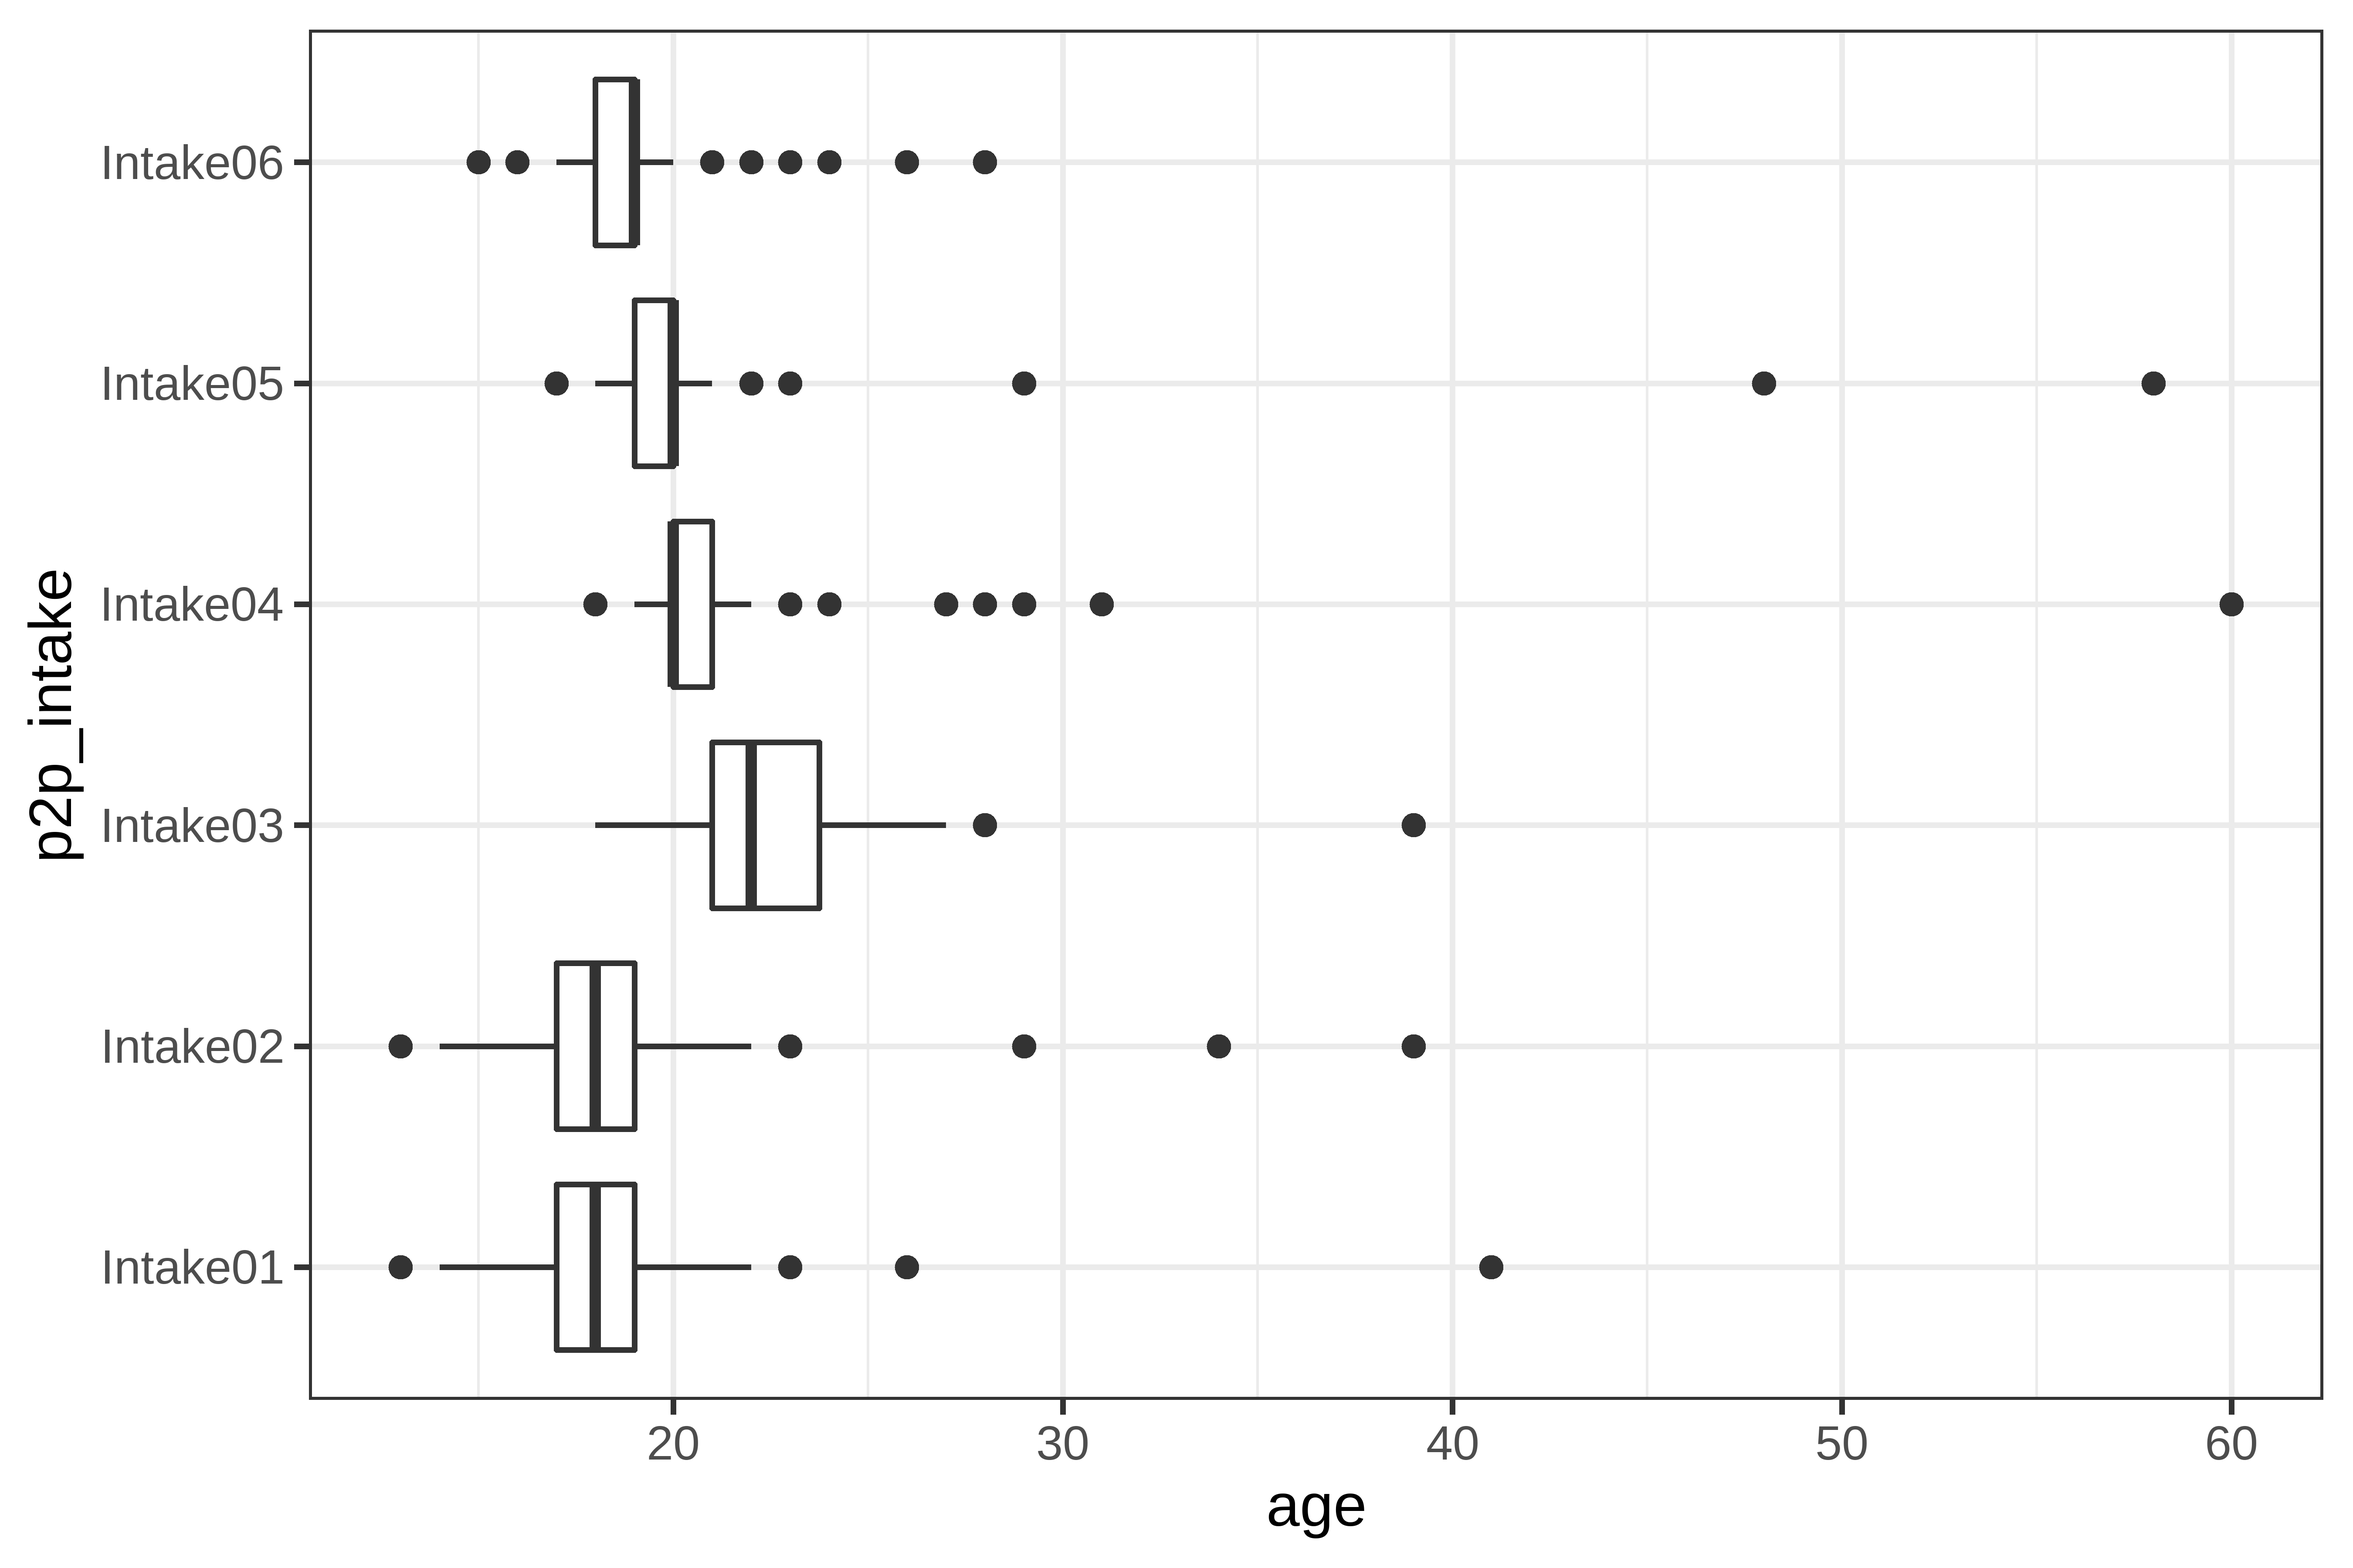
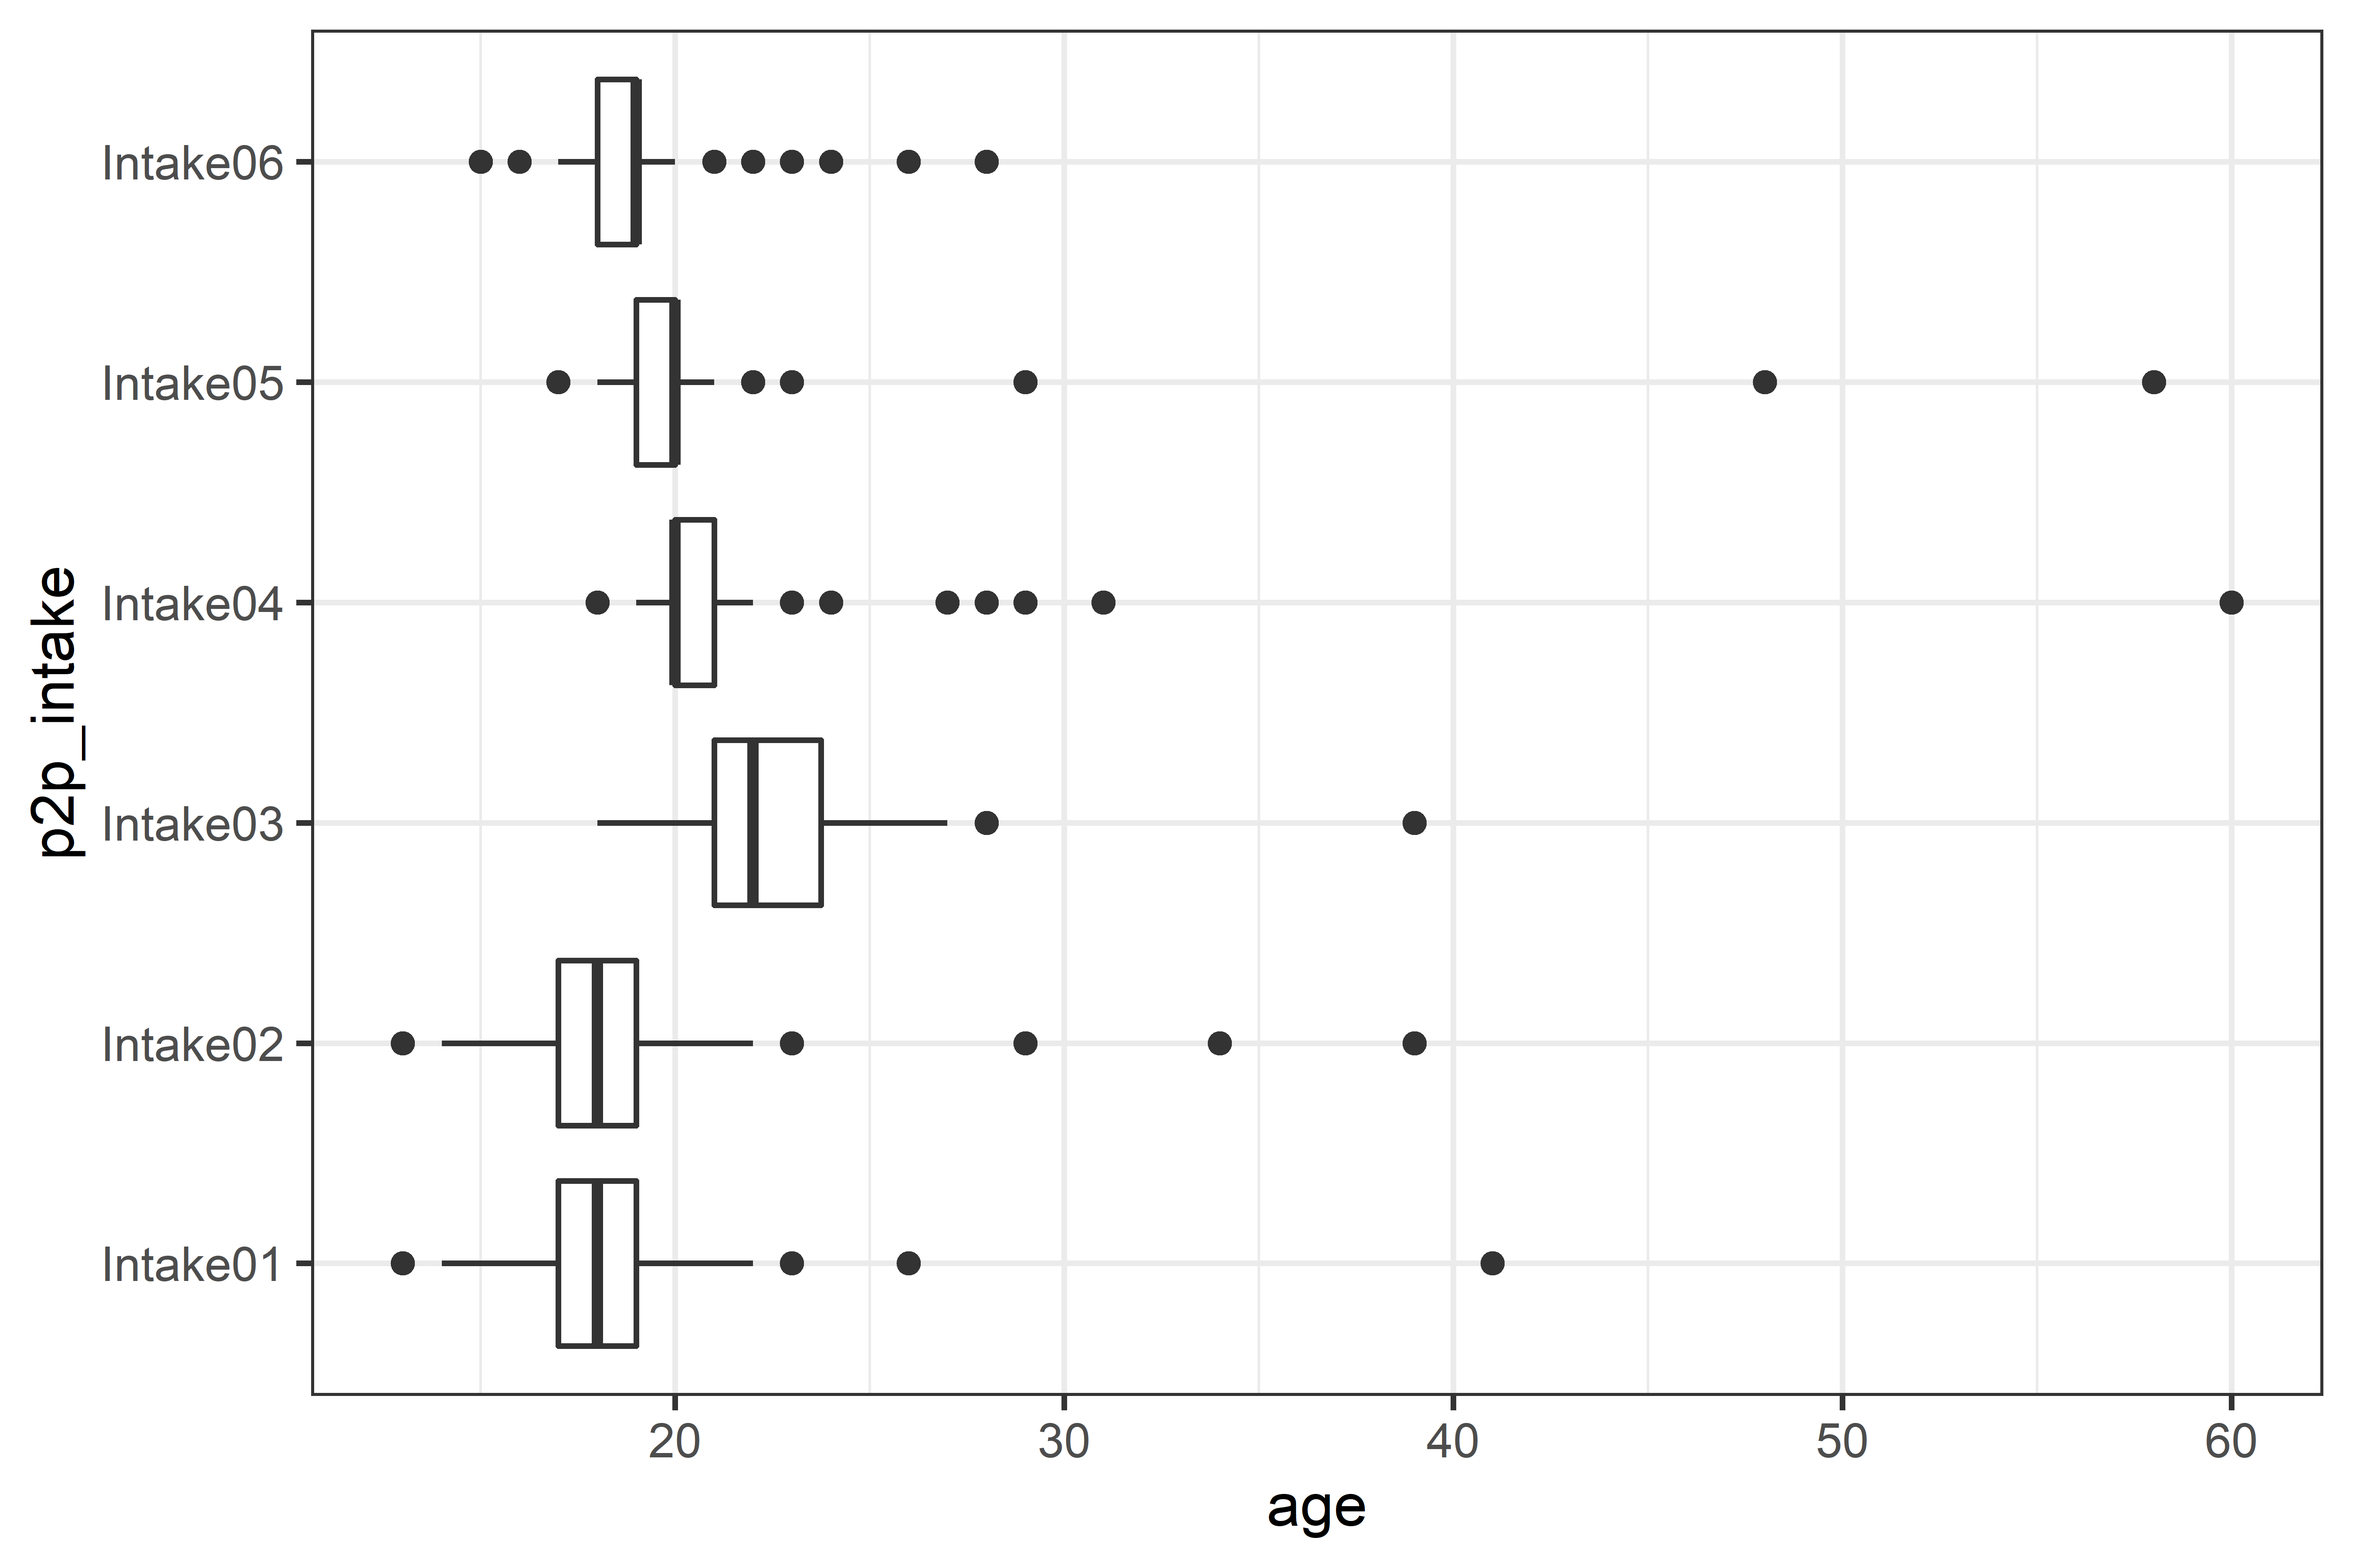
More updates

diff --git a/week_06/week_06_slides.html b/week_06/week_06_slides.html
@@ -119,15 +119,9 @@ background-size: contain
 .pull-right[
 `{ggplot2}` is a powerful, flexible, and widely used R package for making plots.
 
-&lt;br /&gt;
-
 What makes it so useful is that it is based on a **layered grammar of graphics**, "a coherent system for describing and building graphs" [(Grolemund &amp; Wickham, 2017)](https://r4ds.had.co.nz/data-visualisation.html#introduction-1).
 
-&lt;br /&gt;
-
 The grammar of graphics defines a logic for what makes up a plot and how data is mapped to aesthetic features.
-
-&lt;br /&gt;
 
 &lt;small&gt;Note: The `gg` in `{ggplot2}` stands for **g**rammar of **g**raphics!&lt;/small&gt;
 ]
@@ -1460,7 +1454,7 @@ p
 ## Plot every data point - take 2
 
 .pull-left[
-Use `geom_jitter()` instead to plot each data point with a small amount of random variation added to the location of each point.
+&lt;small&gt;Use `geom_jitter()` instead to plot each data point with a small amount of random variation added to the location of each point.&lt;/small&gt;
 
 
 ```r
@@ -1485,6 +1479,89 @@ p
 
 .pull-right[
 &lt;img src="week_06_slides_files/figure-html/unnamed-chunk-36-1.png" width="1800" /&gt;
+&lt;small&gt;We can now see all the data points, but it's a bit cluttered - we can modify arguments within `geom_jitter()` to make some adjustments.&lt;/small&gt;
+]
+
+
+---
+
+## Plot every data point - take 3
+
+.pull-left[
+
+```r
+# Build the plot
+p &lt;- ggplot(
+  data = source_data,
+  aes(x = age, y = p2p_intake,
+      colour = p2p_intake))
+p &lt;- p + geom_boxplot()
+p &lt;- p + geom_jitter(
+* height = 0.25,
+* alpha = 0.5)
+p &lt;- p + scale_y_discrete(
+  labels = p2p_intake_labels)
+p &lt;- p + theme_bw()
+p &lt;- p + theme(legend.position = "none")
+
+# Call the object to display the plot
+p
+```
+&lt;small&gt;By using the `height` argument, we can change how closely the data points are clustered together. We can also use the `alpha` argument to change the opacity (transparency) of each data point.&lt;/small&gt;
+]
+
+--
+
+.pull-right[
+&lt;img src="week_06_slides_files/figure-html/unnamed-chunk-37-1.png" width="1800" /&gt;
+&lt;small&gt;Notice that there are some points that are *not transparent* but are opaque - these are outliers in the box plot layer that we will remove to avoid double-plotting those points across two `geom` layers.&lt;/small&gt;
+]
+
+---
+
+## Plot every data point - ta da!
+
+.pull-left[
+
+```r
+# Build the plot
+p &lt;- ggplot(
+  data = source_data,
+  aes(x = age, y = p2p_intake,
+      colour = p2p_intake))
+p &lt;- p + geom_boxplot(
+* outlier.size = NA)
+p &lt;- p + geom_jitter(
+  height = 0.25,
+  alpha = 0.5)
+p &lt;- p + scale_y_discrete(
+  labels = p2p_intake_labels)
+p &lt;- p + theme_bw()
+p &lt;- p + theme(legend.position = "none")
+
+# Call the object to display the plot
+p
+```
+]
+
+--
+
+.pull-right[
+&lt;img src="week_06_slides_files/figure-html/unnamed-chunk-38-1.png" width="1800" /&gt;
+]
+
+---
+
+## Compare the pair
+
+.pull-left[
+&lt;img src="week_06_slides_files/figure-html/unnamed-chunk-39-1.png" width="1800" /&gt;
+]
+
+--
+
+.pull-right[
+&lt;img src="week_06_slides_files/figure-html/unnamed-chunk-40-1.png" width="1800" /&gt;
 ]
 
 ---
